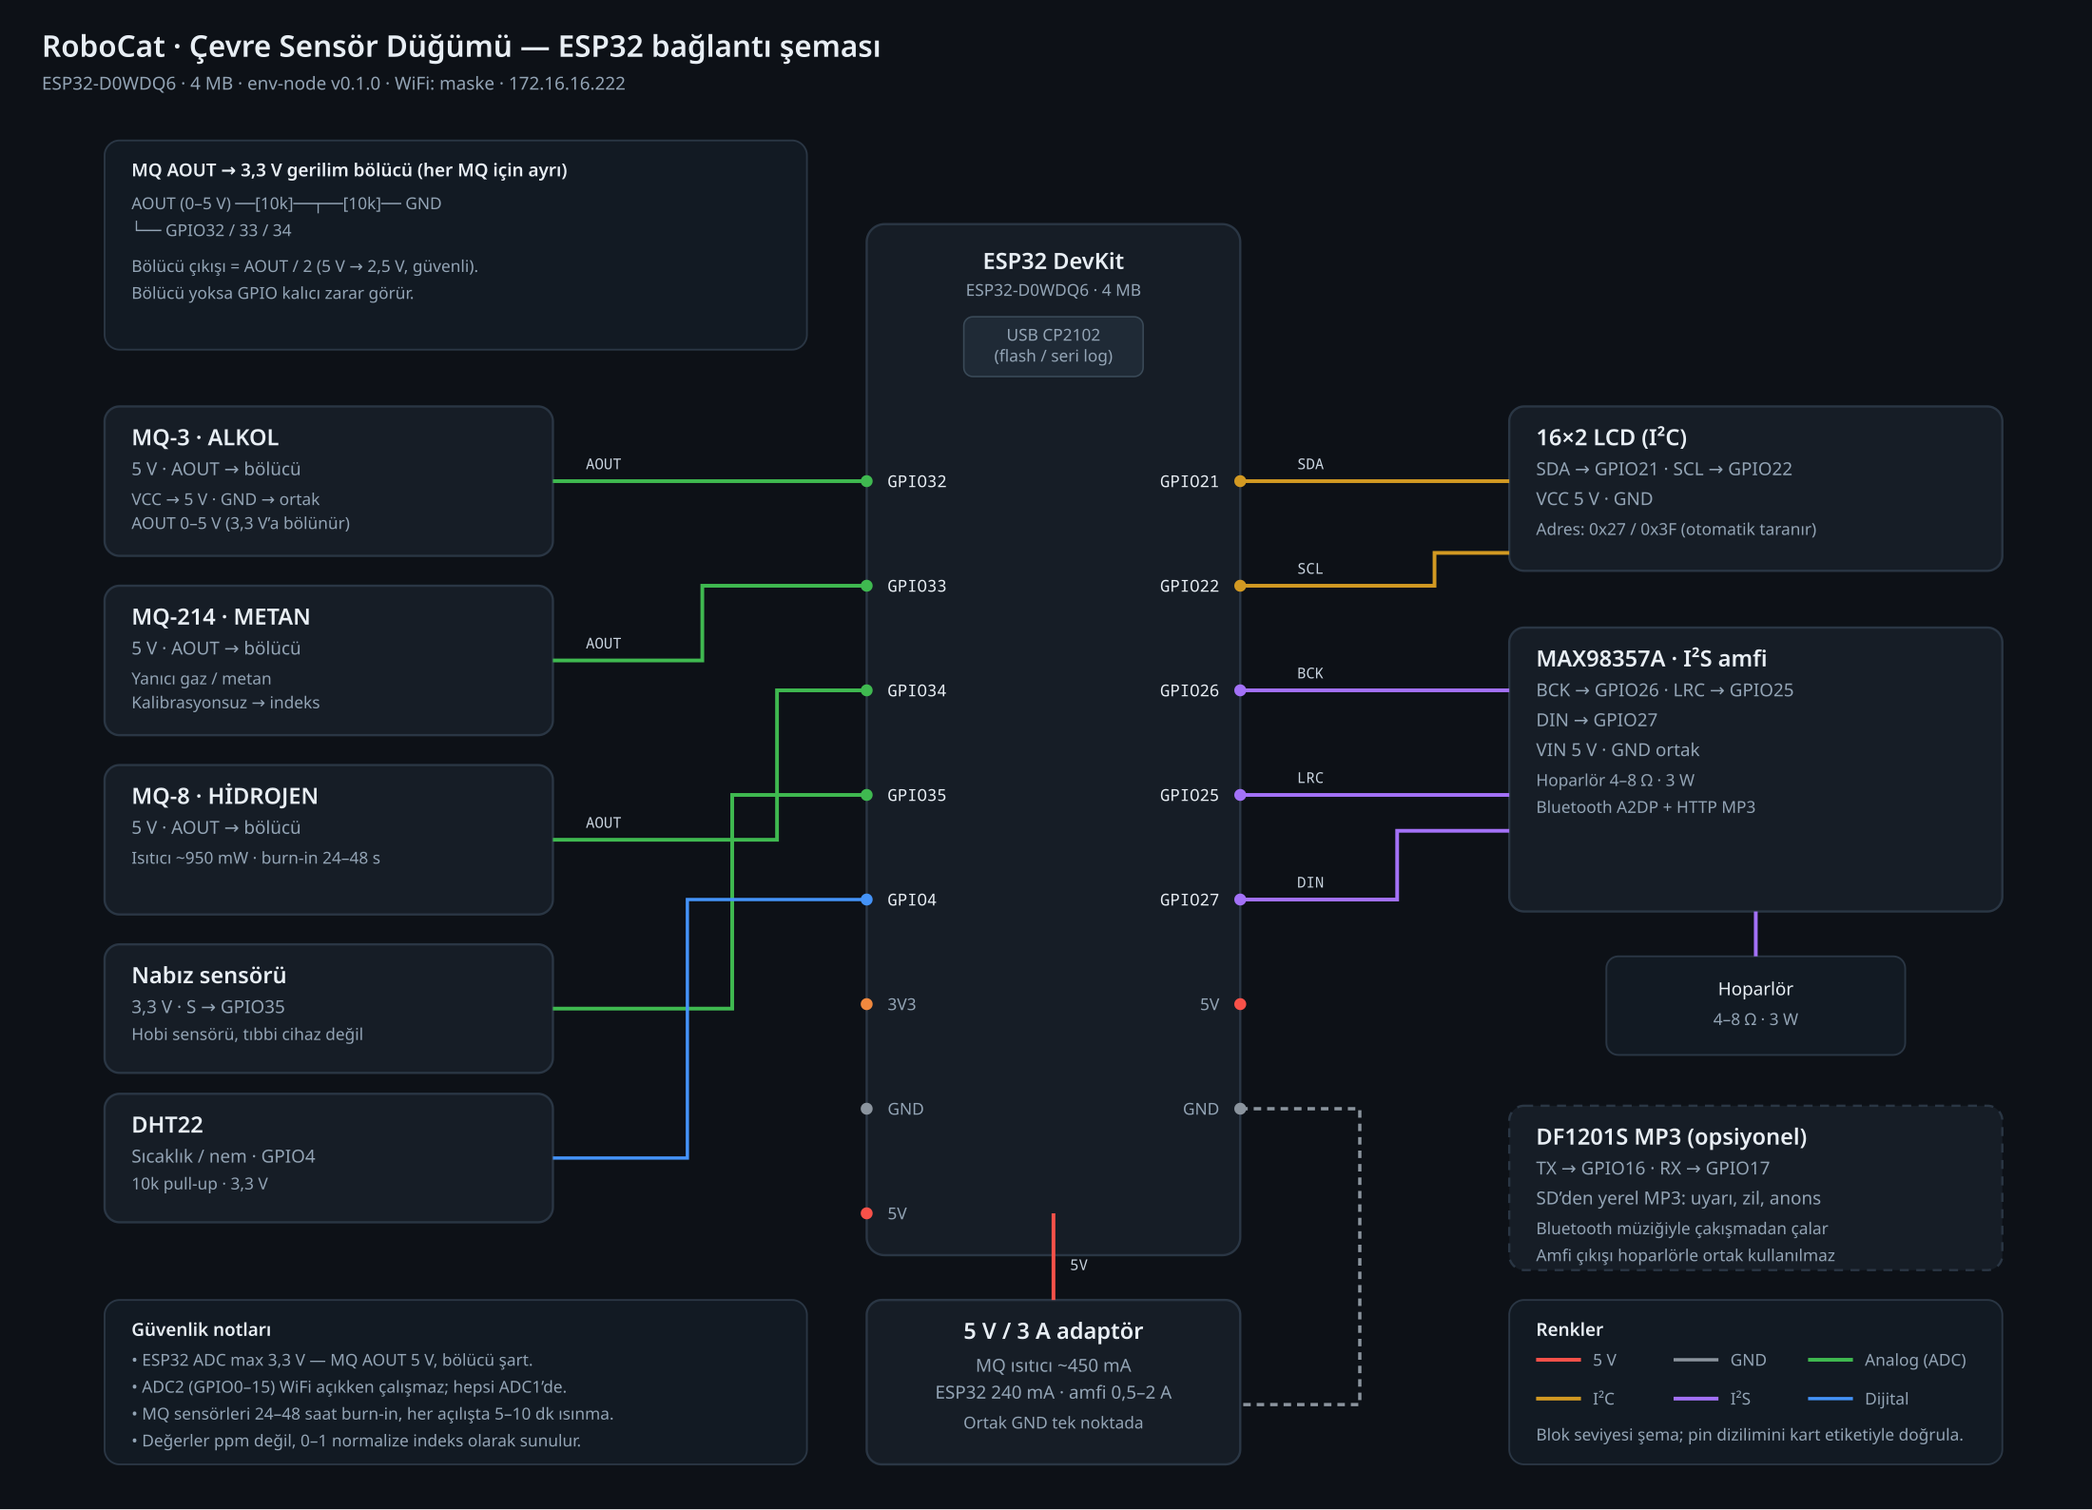
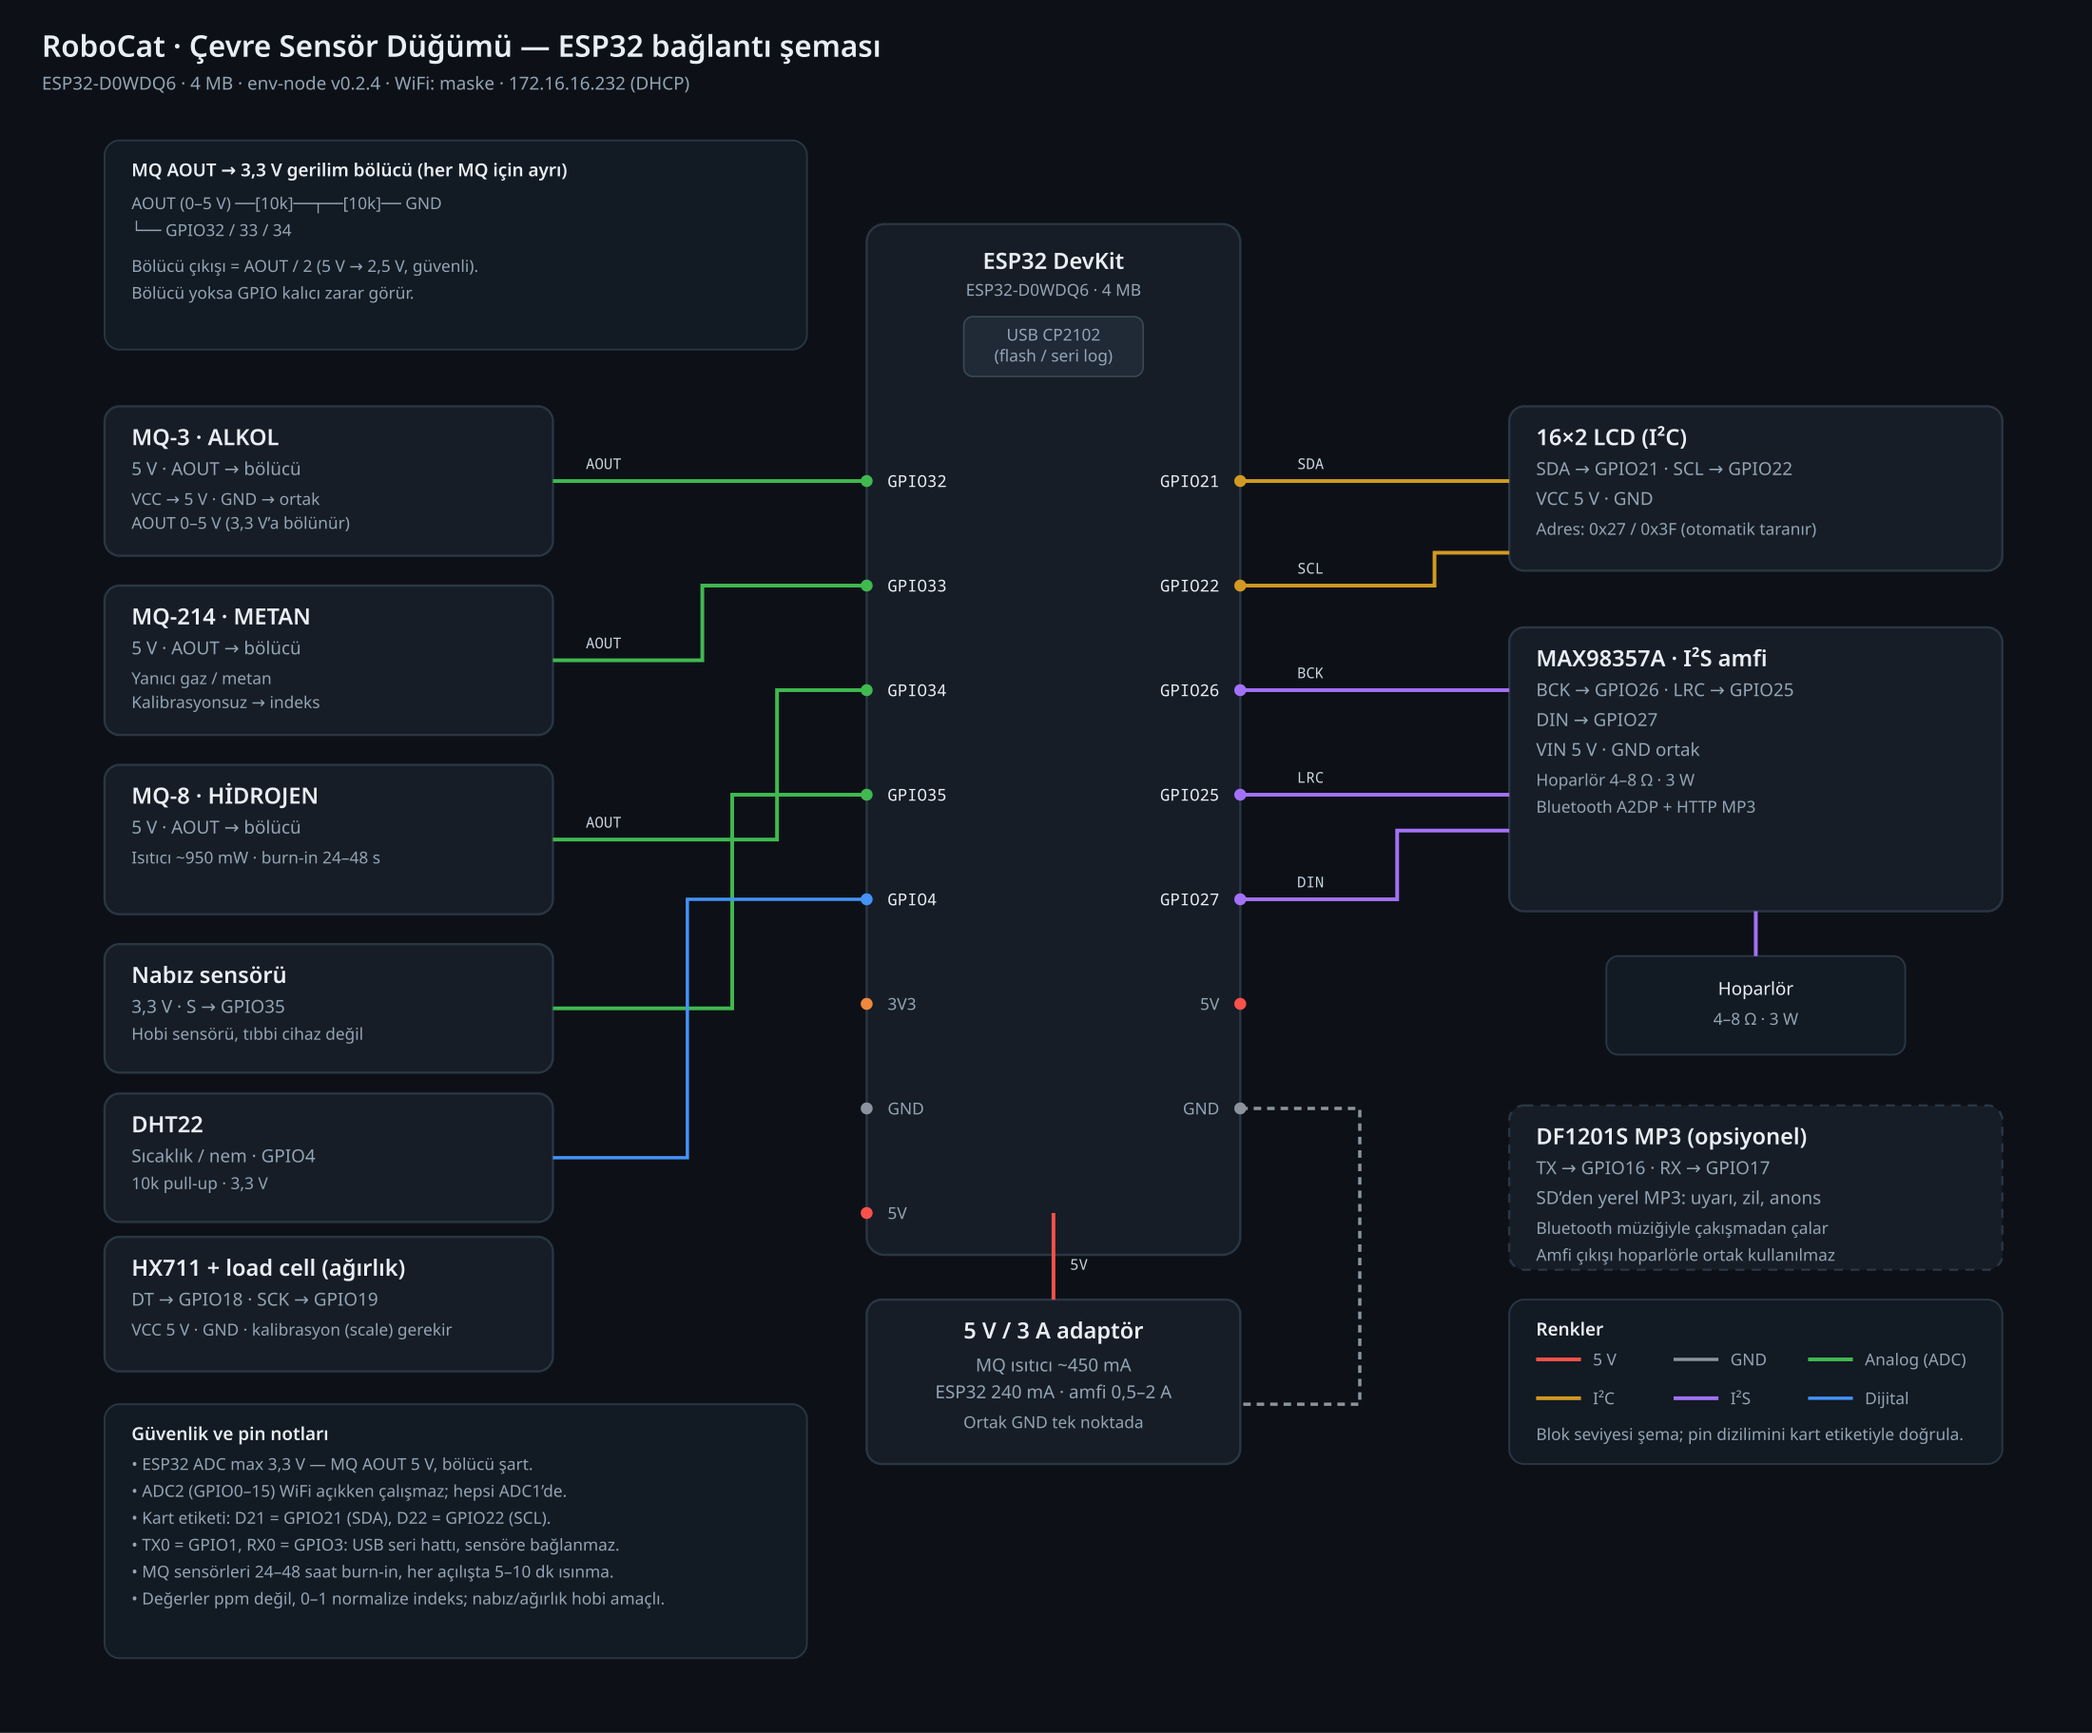
Env node v0.2.4: DHT22 + HX711, LCD auto-scan, pin label notes
- Add temp/humidity and load-cell (HX711) cards and LCD page to the node doc
- Document D21/D22 vs TX0/RX0 labels and LCD troubleshooting
- Wiring diagram: HX711 block, pin-label notes, current IP/firmware

diff --git a/docs/ENV_NODE.md b/docs/ENV_NODE.md
@@ -14,10 +14,10 @@ Hasta odası / atölye için kamerasız ortam izleme: alkol, metan, hidrojen, na
 |---|---|
 | Kart | **ESP32-D0WDQ6** (ESP8266 değil), 4 MB flash, CP2102 USB |
 | MAC | `80:7d:3a:99:85:e8` |
-| Firmware | `env-node` v0.1.0 |
-| Ağ | `maske` WiFi → **172.16.16.222** (DHCP), mDNS `env-node.local` |
-| Web | `http://172.16.16.222/` · `/api` |
-| Durum | Kart bağlı ve yayında; I²C taraması henüz **boş** (LCD takılı değil) |
+| Firmware | `env-node` v0.2.4 |
+| Ağ | `maske` WiFi → **172.16.16.232** (DHCP; IP değişebilir), mDNS `env-node.local` |
+| Web | `http://172.16.16.232/` · `/api` · `/sweep` · `/tare` · `/lcd` |
+| Durum | Kart bağlı; MQ-3/MQ-214/MQ-8 ve HX711 görünüyor. DHT22 okunamıyor, LCD I²C'de bulunamıyor |
 
 > Not: Bu kart ilk bakışta ESP8266 sanıldı; `esptool` ESP32-D0WDQ6 olduğunu doğruladı. A2DP + I²S + çok kanallı ADC yalnız ESP32'de var, bu yüzden proje bu kartla ilerliyor.
 
@@ -29,9 +29,10 @@ Hasta odası / atölye için kamerasız ortam izleme: alkol, metan, hidrojen, na
 | Metan | MQ-214 AOUT | **GPIO33** (ADC1) | Bölücü |
 | Hidrojen | MQ-8 AOUT | **GPIO34** (ADC1) | Bölücü, ısıtıcı ~950 mW |
 | Nabız | Sensör S | **GPIO35** (ADC1) | 3,3 V, bölücü yok |
-| Sıcaklık/nem | DHT22 DATA | **GPIO4** | 10k pull-up |
+| Sıcaklık/nem | DHT22 DATA | **GPIO4** | 10k pull-up · şu an okunamıyor |
 | LCD | SDA / SCL | **GPIO21 / GPIO22** | VCC 5 V, adres 0x27 veya 0x3F |
 | Ses (I²S) | MAX98357A BCK / LRC / DIN | **GPIO26 / 25 / 27** | VIN 5 V, hoparlör 4–8 Ω |
+| Ağırlık | HX711 DT / SCK | **GPIO18 / GPIO19** | Load cell; kalibrasyon (scale) gerekir |
 | Yerel MP3 (ops.) | DF1201S TX / RX | **GPIO17 / 16** | SD'den uyarı/anons sesleri |
 
 **ADC kuralı:** MQ sensörlerinin AOUT çıkışı 5 V'a kadar çıkabilir; ESP32 ADC'si **3,3 V** kabul eder. Her MQ hattına **10k/10k gerilim bölücü** konur (çıkış = AOUT/2). Ayrıca **ADC2 (GPIO0–15) WiFi açıkken kullanılamaz**, bu yüzden tüm analog girişler ADC1'dedir.
@@ -46,6 +47,37 @@ Hasta odası / atölye için kamerasız ortam izleme: alkol, metan, hidrojen, na
 | MAX98357A + hoparlör | 0,5–2 A tepe |
 
 **5 V / 3 A** adaptör, tek nokta ortak GND, MQ ısıtıcıları için ayrı 5 V dalı.
+
+## Kart etiketleri — D21 / TX0 karışıklığı
+
+| Kart etiketi | GPIO | Kullanım |
+|---|---|---|
+| **D21** | GPIO21 | I²C **SDA** (LCD) |
+| **D22** | GPIO22 | I²C **SCL** (LCD) |
+| TX0 | GPIO1 | USB seri TX — **sensöre bağlanmaz** |
+| RX0 | GPIO3 | USB seri RX — **sensöre bağlanmaz** |
+| D32 / D33 / D34 / D35 | ADC1 | MQ-3 / MQ-214 / MQ-8 / nabız |
+
+## LCD sorun giderme
+
+Ekranda anlamsız harfler/bloklar = LCD **initialize edilmemiş** (I²C konuşmuyor). Sıra:
+
+1. LCD arkasındaki **I²C backpack** var mı? (16 pinli çıplak LCD ise I²C dönüştürücü gerekir.)
+2. 4 kablo: **VCC 5 V · GND · SDA → D21 · SCL → D22** (SDA/SCL ters olabilir, cihaz ikisini de dener).
+3. `GET /sweep` → 4 olası pin çiftinde I²C taraması yapar, `/sweep/status` sonucu verir.
+4. Cihaz hâlâ `lcd: yok` diyorsa kablo/lehim veya backpack arızası; kontrast potu yalnız görünürlüğü etkiler, karakter bozukluğunu çözmez.
+
+## Şu anki okumalar (2026-10-27)
+
+| Sensör | Durum |
+|---|---|
+| MQ-3 alkol | ✅ ~560 mV (sensör bağlı) |
+| MQ-214 metan | ✅ ~395 mV |
+| MQ-8 hidrojen | ✅ ~270 mV |
+| Nabız | ⚠ 0 mV (parmak yok) |
+| DHT22 | ❌ okunamıyor (GPIO4'te veri yok) |
+| HX711 | ✅ çip yanıt veriyor, ağırlık 0 g (load cell/kalibrasyon?) |
+| LCD | ❌ I²C'de bulunamadı |
 
 ## Sensör gerçekleri
 
